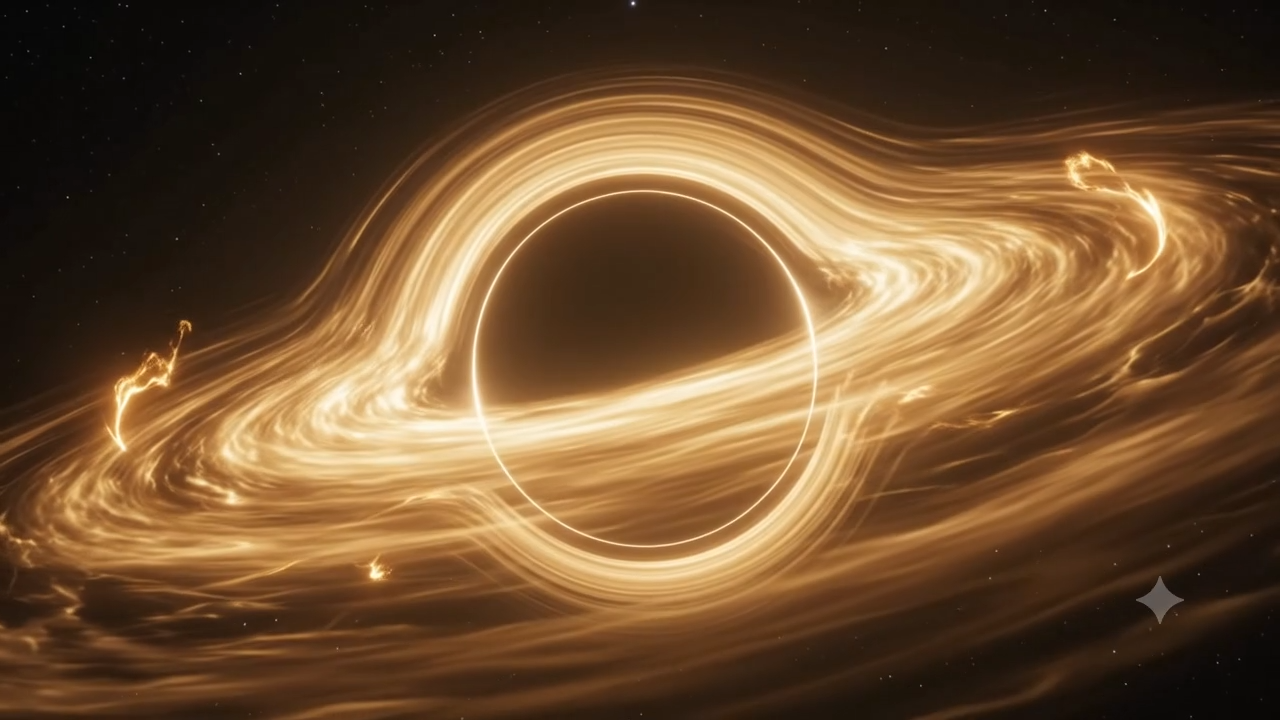
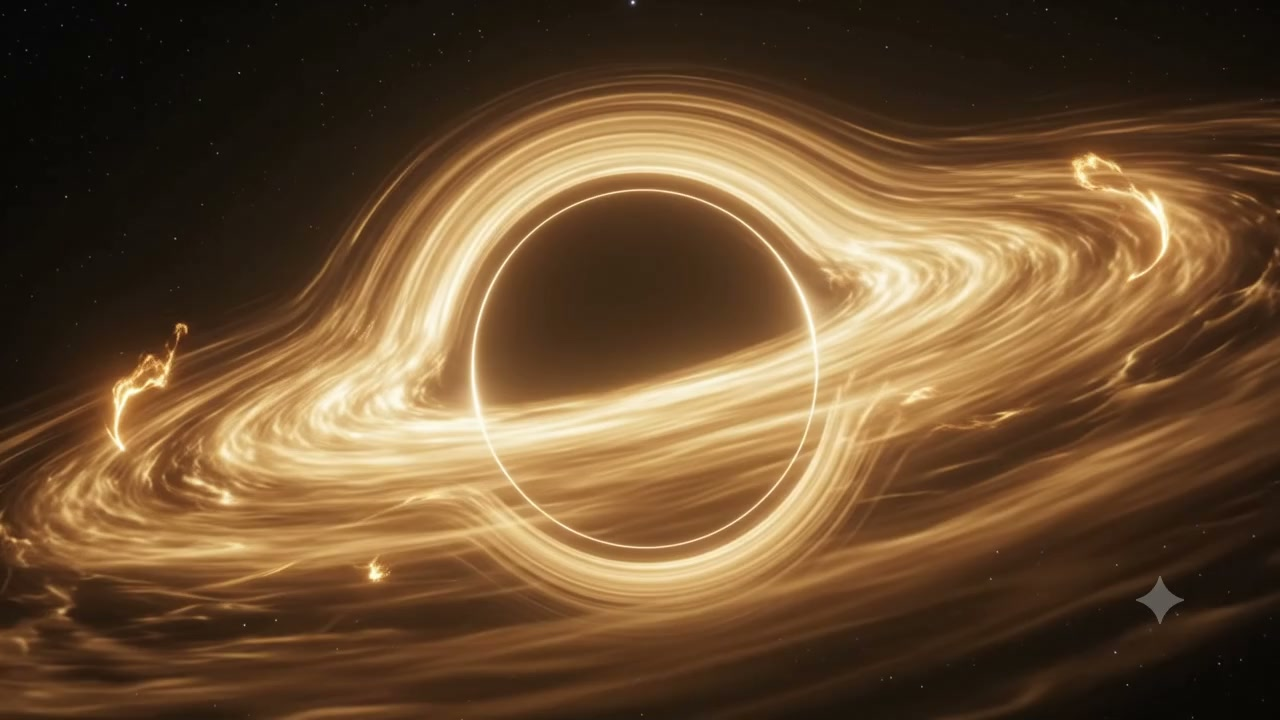
Upgrade background video quality and clamp music volume
Re-encode the scroll-scrub video from a higher-quality 720p master at
CRF 16 with dense keyframes (smoother seeking), regenerate the poster,
and keep the HQ source in assets/. Clamp audio volume to [0,1] to fix an
IndexSizeError from float rounding during the duck fade.

diff --git a/components/MusicPlayer.tsx b/components/MusicPlayer.tsx
@@ -37,15 +37,16 @@ export default function MusicPlayer() {
     const audio = audioRef.current;
     if (!audio) return;
 
-    const target = ducked ? volume * DUCK_FACTOR : volume;
-    const from = audio.volume;
+    const clamp = (v: number) => Math.min(1, Math.max(0, v));
+    const target = clamp(ducked ? volume * DUCK_FACTOR : volume);
+    const from = clamp(audio.volume);
     const start = performance.now();
 
     if (fadeRef.current !== null) cancelAnimationFrame(fadeRef.current);
 
     const step = (now: number) => {
       const t = Math.min(1, (now - start) / FADE_MS);
-      audio.volume = from + (target - from) * t;
+      audio.volume = clamp(from + (target - from) * t);
       if (t < 1) {
         fadeRef.current = requestAnimationFrame(step);
       } else {